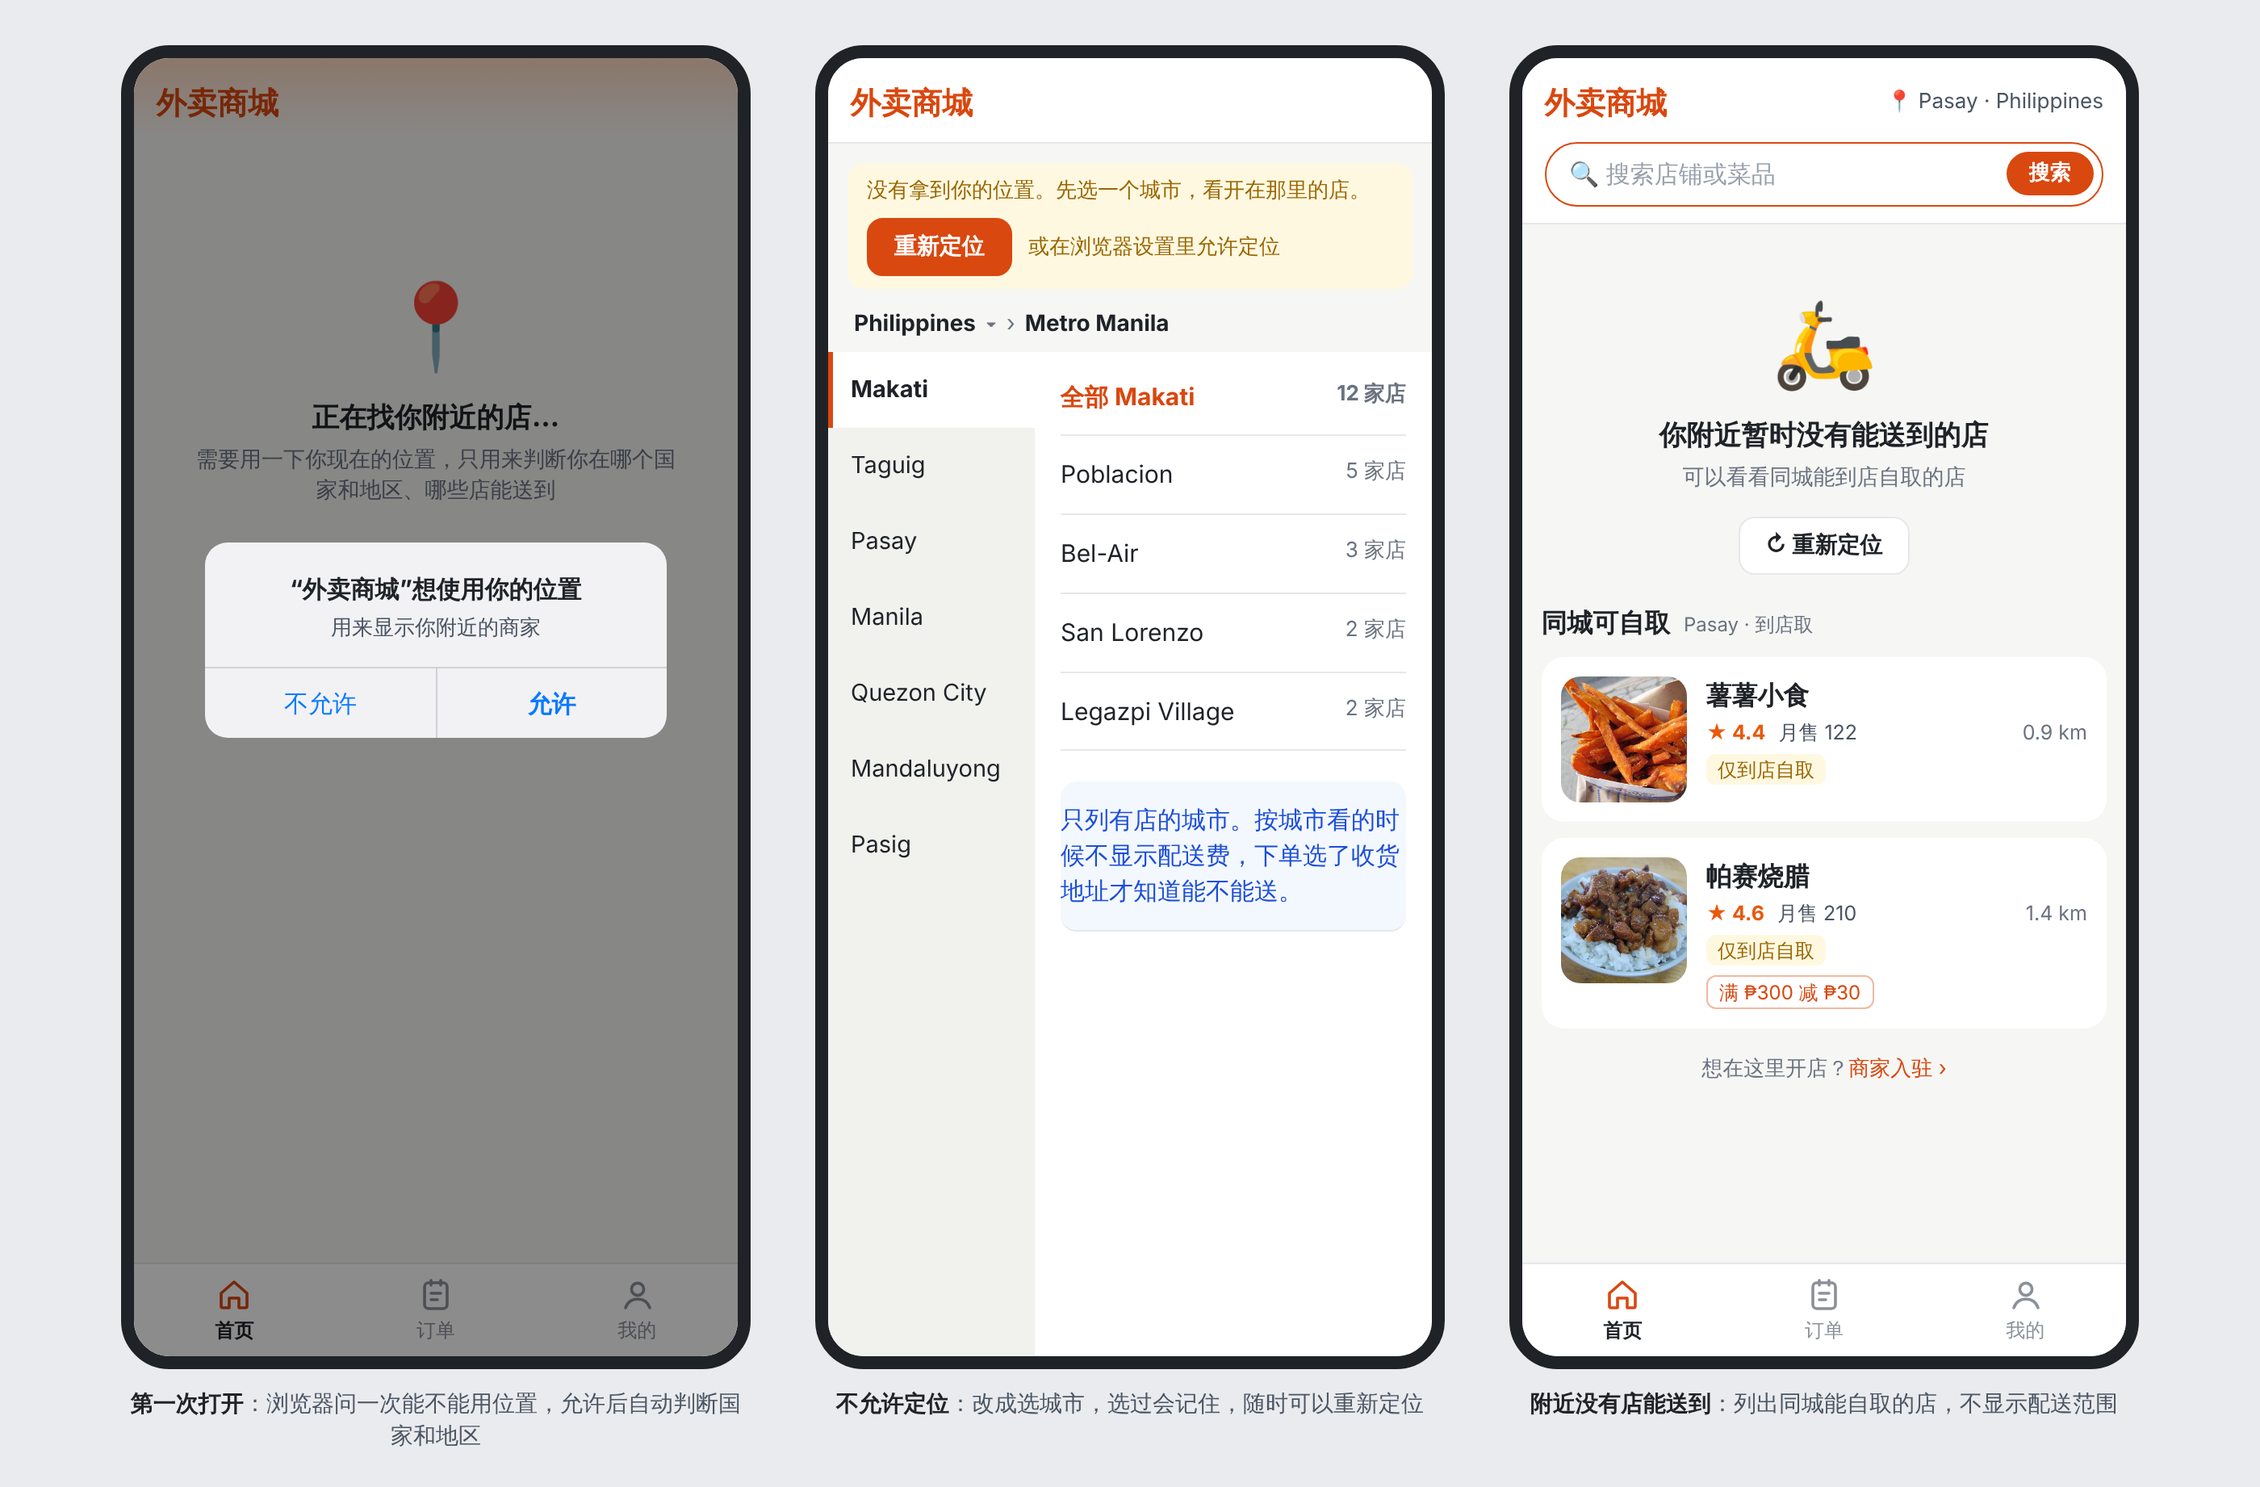
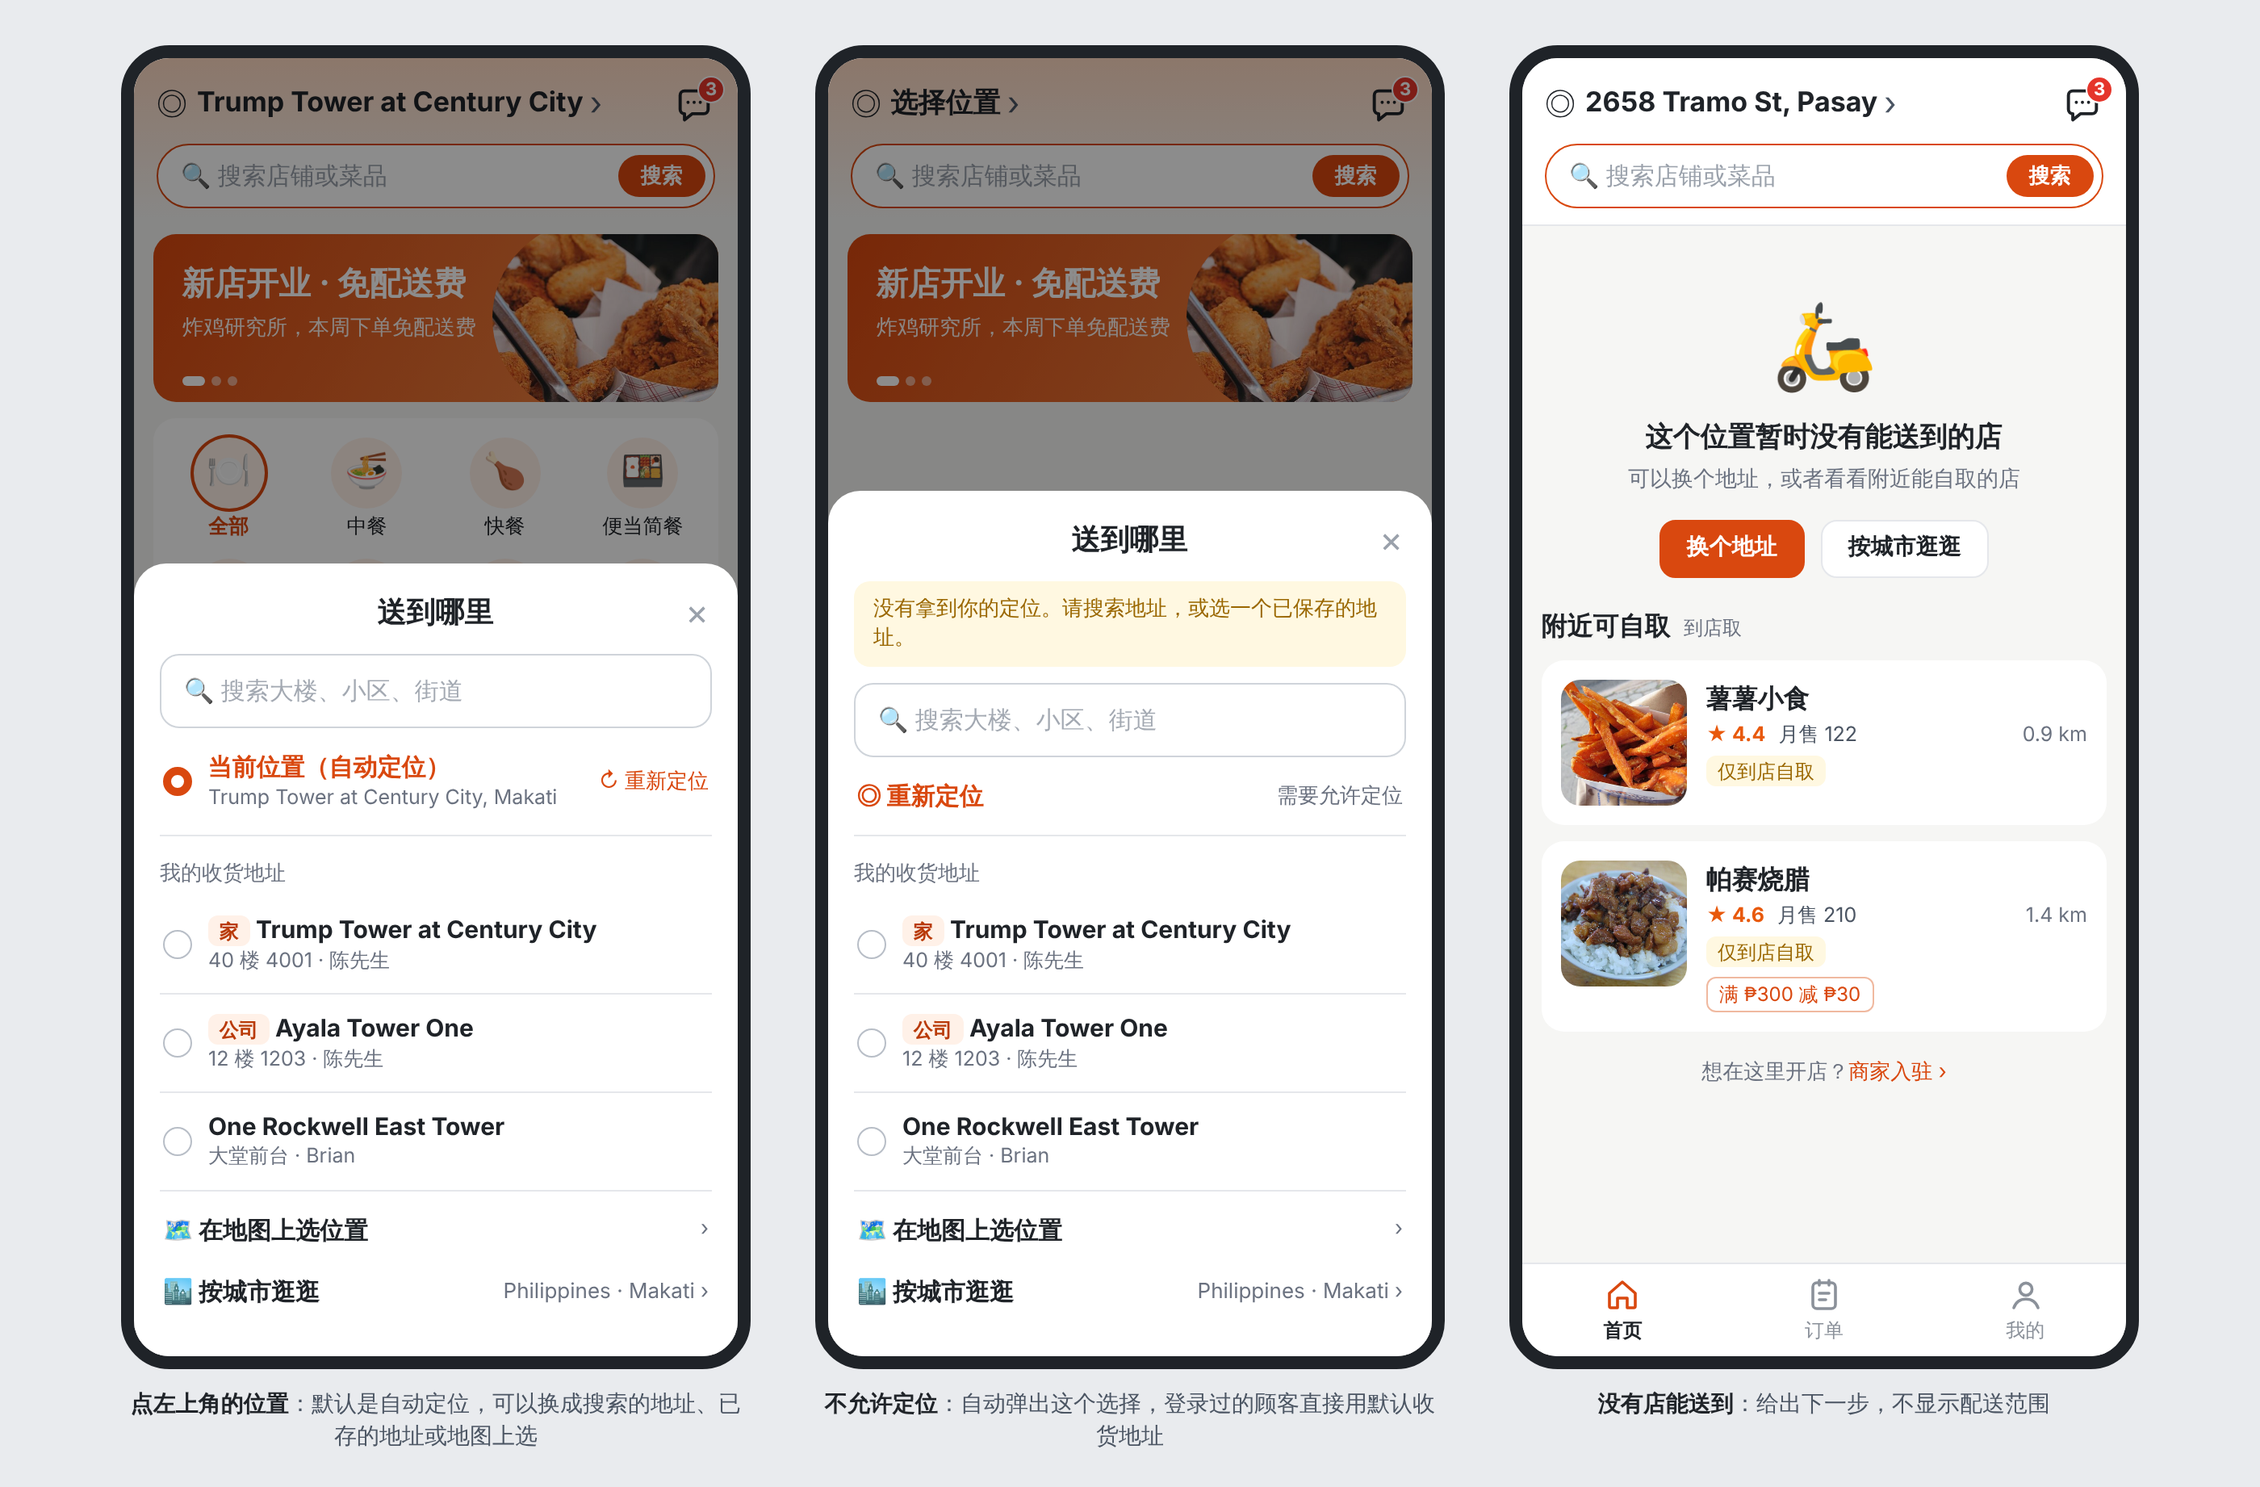
商城设计 v0.3：恢复顶部地址，左上角位置、右上角消息
Claude-Session: https://claude.ai/code/session_0171QGWHze3LkAjJvcuCNLGp

diff --git a/docs/mall-prototype/index.html b/docs/mall-prototype/index.html
@@ -48,8 +48,9 @@ function cardv(s) {
 }
 var CATS = [['🍽','全部'],['🍜','中餐'],['🍗','快餐'],['🍱','便当简餐'],['🧋','饮品'],['🍢','小吃'],['🍰','甜点'],['🥗','轻食']];
 function cats(on) { return '<div class="cats">' + CATS.map(function (c, i) { return '<div class="cat' + (i === on ? ' on' : '') + '"><i>' + c[0] + '</i>' + c[1] + '</div>'; }).join('') + '</div>'; }
-function topbar(region, flat, q) {
-  return '<div class="top' + (flat ? ' flat' : '') + '"><div class="loc"><span class="lgm">外卖商城</span><span class="sub">📍 ' + region + '</span></div>' +
+var MSG = '<span class="msg"><svg viewBox="0 0 24 24" width="26" height="26" fill="none" stroke="currentColor" stroke-width="1.8" stroke-linecap="round" stroke-linejoin="round"><path d="M4 6.5A2.5 2.5 0 0 1 6.5 4h11A2.5 2.5 0 0 1 20 6.5v8a2.5 2.5 0 0 1-2.5 2.5H11l-4.5 3.5V17A2.5 2.5 0 0 1 4 14.5z"/><path d="M8.5 10.5h.01M12 10.5h.01M15.5 10.5h.01"/></svg><i>3</i></span>';
+function topbar(name, flat, q) {
+  return '<div class="top' + (flat ? ' flat' : '') + '"><div class="loc"><span class="tgt">◎</span><span class="ell">' + name + '</span><span class="go">›</span>' + MSG + '</div>' +
     '<div class="search">🔍 ' + (q ? '<span class="q">' + q + '</span><span style="margin-left:auto">ⓧ</span>' : '搜索店铺或菜品<b>搜索</b>') + '</div></div>';
 }
 var ICON = {
@@ -61,41 +62,52 @@ var TABS = '<div class="tabs"><div class="on">' + ICON.home + '首页</div><div>
 function sorts(on) { return '<div class="sorts">' + ['综合','距离近','评分高','配送费低'].map(function (t, i) { return '<span class="s' + (i === on ? ' on' : '') + '">' + t + '</span>'; }).join('') + '<span class="gap"></span><span class="s">筛选 ▾</span></div>'; }
 function banner(cls) { return '<div class="banner ' + (cls || '') + '"><h3>新店开业 · 免配送费</h3><p>炸鸡研究所，本周下单免配送费</p><div class="dots"><i class="on"></i><i></i><i></i></div><img src="' + IMG + 'fried-combo.jpg"></div>'; }
 function phone(body, cap) { return '<div><div class="phone">' + body + '</div><div class="caption">' + cap + '</div></div>'; }
-var HERE = 'Makati · Philippines';
+var HERE = 'Trump Tower at Century City';
 
 function home() {
   var again = '<div class="again">' + [S[0], S[1], S[3], S[4]].map(function (s) { return '<div><img src="' + IMG + s.img + '"><div class="ell">' + s.n + '</div></div>'; }).join('') + '</div>';
   var a = topbar(HERE) + '<div class="scroll">' + banner() + cats(0) + '<div class="sec">常点的店</div>' + again +
-    '<div class="sec">附近的店 <span>共 6 家 · 都能送到你现在的位置</span></div>' + sorts(0) + shop(S[0]) + shop(S[1]) + '</div>' + TABS;
+    '<div class="sec">附近的店 <span>共 6 家 · 都能送到这个位置</span></div>' + sorts(0) + shop(S[0]) + shop(S[1]) + '</div>' + TABS;
   var b = topbar(HERE, true) + '<div class="scroll">' + sorts(1) + shop(S[1], {nocart:1}) + shop(S[2]) + shop(S[4]) + shop(S[5]) +
     '<div class="sec">附近可自取 <span>不送到这里，可以到店取</span></div>' + shop(S[6]) + '</div>' + TABS;
   var c = topbar(HERE, true, '牛肉面') + '<div class="scroll"><div class="small muted">找到 2 家店有“牛肉面”</div>' + shop(S[0], {dishes:1, nocart:1}) +
     shop({ n:'台北便当', c:'', img:'bento.jpg', star:'4.7', sold:355, fee:59, min:180, eta:35, km:'2.4', tags:[], d:[['beef-noodle-soup.jpg','台式牛肉面','₱240']] }, {dishes:1}) + '</div>' + TABS;
   return '<div class="phones">' +
-    phone(a, '<b>商城首页</b>：不用选地址，自动定位后直接列出附近能送到的店') +
+    phone(a, '<b>商城首页</b>：左上角是自动定位到的位置，点一下可以换；右上角是消息') +
     phone(b, '<b>往下滑</b>：可以排序和筛选，休息中的店排在后面，送不到但能自取的单独一栏') +
     phone(c, '<b>搜索</b>：按店名或菜名搜，结果也只在附近能送到的店里找') + '</div>';
 }
 
 function loc() {
-  var a = '<div class="top"><div class="loc"><span class="lgm">外卖商城</span></div></div>' +
-    '<div class="scroll"><div class="empty" style="padding-top:70px"><div class="ic">📍</div><h3>正在找你附近的店…</h3><p>需要用一下你现在的位置，只用来判断你在哪个国家和地区、哪些店能送到</p></div></div>' + TABS +
-    '<div class="dim"></div><div class="sysdlg"><b>“外卖商城”想使用你的位置</b><p>用来显示你附近的商家</p><div><span>不允许</span><span class="ok">允许</span></div></div>';
-  var b = '<div class="top flat"><div class="loc"><span class="lgm">外卖商城</span></div></div>' +
-    '<div style="padding:12px 12px 0"><div class="notice">没有拿到你的位置。先选一个城市，看开在那里的店。<div class="row" style="margin-top:8px"><span class="btn primary sm">重新定位</span><span class="small">或在浏览器设置里允许定位</span></div></div></div>' +
-    '<div class="crumb"><b>Philippines</b> ▾ <span>›</span> <b>Metro Manila</b></div>' +
-    '<div class="cols"><div class="l"><div class="on">Makati</div><div>Taguig</div><div>Pasay</div><div>Manila</div><div>Quezon City</div><div>Mandaluyong</div><div>Pasig</div></div>' +
-    '<div class="r"><div class="on">全部 Makati <span>12 家店</span></div><div>Poblacion <span>5 家店</span></div><div>Bel-Air <span>3 家店</span></div><div>San Lorenzo <span>2 家店</span></div><div>Legazpi Village <span>2 家店</span></div>' +
-    '<div style="border:0;display:block"><div class="notice info" style="margin-top:6px">只列有店的城市。按城市看的时候不显示配送费，下单选了收货地址才知道能不能送。</div></div></div></div>';
-  var c = topbar('Pasay · Philippines', true) + '<div class="scroll"><div class="empty"><div class="ic">🛵</div><h3>你附近暂时没有能送到的店</h3><p>可以看看同城能到店自取的店</p>' +
-    '<div class="row" style="justify-content:center"><span class="btn sm">↻ 重新定位</span></div></div>' +
-    '<div class="sec">同城可自取 <span>Pasay · 到店取</span></div>' + shop(S[6]) +
+  var bg = topbar(HERE) + '<div class="scroll">' + banner() + cats(0) + '</div>' + TABS;
+  var a = bg + '<div class="dim"></div><div class="sheet"><h2>送到哪里<span>×</span></h2>' +
+    '<div class="inp">🔍 搜索大楼、小区、街道</div>' +
+    '<div class="gps"><span class="rd on" style="flex:none;width:18px;height:18px;border-radius:50%;border:5px solid var(--brand);margin:0"></span><div style="flex:1;min-width:0"><div>当前位置（自动定位）</div><div style="font-weight:400;color:var(--muted);font-size:12.5px">Trump Tower at Century City, Makati</div></div><span style="color:var(--brand)">↻ 重新定位</span></div>' +
+    '<div class="lbl">我的收货地址</div>' +
+    '<div class="adr"><span class="rd"></span><div class="grow"><b><span class="tag brand">家</span> Trump Tower at Century City</b><small>40 楼 4001 · 陈先生</small></div></div>' +
+    '<div class="adr"><span class="rd"></span><div class="grow"><b><span class="tag brand">公司</span> Ayala Tower One</b><small>12 楼 1203 · 陈先生</small></div></div>' +
+    '<div class="adr"><span class="rd"></span><div class="grow"><b>One Rockwell East Tower</b><small>大堂前台 · Brian</small></div></div>' +
+    '<div class="gps" style="color:var(--ink);border:0">🗺 在地图上选位置<span>›</span></div>' +
+    '<div class="gps" style="color:var(--ink);border:0;padding-top:4px">🏙 按城市逛逛<span>Philippines · Makati ›</span></div></div>';
+  var b = topbar('选择位置') + '<div class="scroll">' + banner() + '</div>' + TABS + '<div class="dim"></div><div class="sheet"><h2>送到哪里<span>×</span></h2>' +
+    '<div class="notice" style="margin-bottom:10px">没有拿到你的定位。请搜索地址，或选一个已保存的地址。</div>' +
+    '<div class="inp">🔍 搜索大楼、小区、街道</div>' +
+    '<div class="gps">◎ 重新定位<span>需要允许定位</span></div>' +
+    '<div class="lbl">我的收货地址</div>' +
+    '<div class="adr"><span class="rd"></span><div class="grow"><b><span class="tag brand">家</span> Trump Tower at Century City</b><small>40 楼 4001 · 陈先生</small></div></div>' +
+    '<div class="adr"><span class="rd"></span><div class="grow"><b><span class="tag brand">公司</span> Ayala Tower One</b><small>12 楼 1203 · 陈先生</small></div></div>' +
+    '<div class="adr"><span class="rd"></span><div class="grow"><b>One Rockwell East Tower</b><small>大堂前台 · Brian</small></div></div>' +
+    '<div class="gps" style="color:var(--ink);border:0">🗺 在地图上选位置<span>›</span></div>' +
+    '<div class="gps" style="color:var(--ink);border:0;padding-top:4px">🏙 按城市逛逛<span>Philippines · Makati ›</span></div></div>';
+  var c = topbar('2658 Tramo St, Pasay', true) + '<div class="scroll"><div class="empty"><div class="ic">🛵</div><h3>这个位置暂时没有能送到的店</h3><p>可以换个地址，或者看看附近能自取的店</p>' +
+    '<div class="row" style="justify-content:center"><span class="btn primary sm">换个地址</span><span class="btn sm">按城市逛逛</span></div></div>' +
+    '<div class="sec">附近可自取 <span>到店取</span></div>' + shop(S[6]) +
     shop({ n:'帕赛烧腊', c:'', img:'braised-pork-rice.jpg', star:'4.6', sold:210, km:'1.4', pickup:1, tags:['满 ₱300 减 ₱30'] }) +
     '<div class="small muted" style="text-align:center;margin-top:6px">想在这里开店？<span style="color:var(--brand)">商家入驻 ›</span></div></div>' + TABS;
   return '<div class="phones">' +
-    phone(a, '<b>第一次打开</b>：浏览器问一次能不能用位置，允许后自动判断国家和地区') +
-    phone(b, '<b>不允许定位</b>：改成选城市，选过会记住，随时可以重新定位') +
-    phone(c, '<b>附近没有店能送到</b>：列出同城能自取的店，不显示配送范围') + '</div>';
+    phone(a, '<b>点左上角的位置</b>：默认是自动定位，可以换成搜索的地址、已存的地址或地图上选') +
+    phone(b, '<b>不允许定位</b>：自动弹出这个选择，登录过的顾客直接用默认收货地址') +
+    phone(c, '<b>没有店能送到</b>：给出下一步，不显示配送范围') + '</div>';
 }
 
 function wide(w, h, cols, pc) {
@@ -103,10 +115,10 @@ function wide(w, h, cols, pc) {
     '<hr><div>☑ 只看营业中</div><div>☐ 有优惠</div><div>☐ 可预约</div></div>';
   var list = S.slice(0, pc ? 6 : 4);
   return '<div class="frame' + (pc ? ' pc' : '') + '" style="width:' + (w + 16) + 'px;height:' + (h + 16) + 'px">' +
-    '<div class="hdr"><span class="lg">外卖商城</span><div class="here">📍 ' + HERE + '</div>' +
-    '<div class="search">🔍 搜索店铺或菜品<b>搜索</b></div><div class="nav">' + (pc ? '<span>收藏</span>' : '') + '<span>订单</span><span>消息</span><span class="av">陈</span></div></div>' +
+    '<div class="hdr"><span class="lg">外卖商城</span><div class="loc"><span class="tgt">◎</span><span class="ell">' + HERE + '</span><span class="go">›</span></div>' +
+    '<div class="search">🔍 搜索店铺或菜品<b>搜索</b></div><div class="nav">' + (pc ? '<span>收藏</span>' : '') + '<span>订单</span>' + MSG + '<span class="av">陈</span></div></div>' +
     '<div class="body">' + side + '<div class="main">' + banner('bannerw') +
-    '<div class="row between"><div class="sec">附近的店 <span>共 6 家 · 都能送到你现在的位置</span></div>' + sorts(0) + '</div>' +
+    '<div class="row between"><div class="sec">附近的店 <span>共 6 家 · 都能送到这个位置</span></div>' + sorts(0) + '</div>' +
     '<div class="grid" style="grid-template-columns:repeat(' + cols + ',1fr)">' + list.map(cardv).join('') + '</div></div></div></div>';
 }
 
@@ -129,7 +141,7 @@ var s = new URLSearchParams(location.search).get('s') || 'home';
 document.getElementById('root').innerHTML =
   s === 'location' ? loc() :
   s === 'ipad' ? wide(1024, 768, 2) + '<div class="capw"><b>iPad</b>：左边分类，右边两列店铺卡</div>' :
-  s === 'pc' ? wide(1440, 900, 3, true) + '<div class="capw"><b>电脑</b>：顶部是自动识别出的地区、搜索、订单和我的，店铺卡三列，带封面图</div>' :
+  s === 'pc' ? wide(1440, 900, 3, true) + '<div class="capw"><b>电脑</b>：左上角是位置，右上角是订单、消息和我的，店铺卡三列，带封面图</div>' :
   s === 'manage' ? manage() : home();
 </script>
 </body>

diff --git a/docs/mall-prototype/proto.css b/docs/mall-prototype/proto.css
@@ -132,3 +132,9 @@ td img { width:34px; height:34px; border-radius:8px; object-fit:cover; display:b
 .sysdlg { position:absolute; left:44px; right:44px; top:300px; background:#f2f2f4; border-radius:14px; text-align:center; padding:18px 0 0; font-size:15px; overflow:hidden; }
 .sysdlg p { margin:4px 16px 14px; font-size:13px; color:#4b5563; }
 .sysdlg > div { display:grid; grid-template-columns:1fr 1fr; border-top:1px solid #d1d1d6; } .sysdlg span { padding:11px 0; color:#0a7aff; } .sysdlg span.ok { font-weight:700; border-left:1px solid #d1d1d6; }
+
+/* v0.3：左上角位置，右上角消息 */
+.loc .tgt { font-size:19px; color:var(--ink); font-weight:400; } .loc .go { font-weight:400; color:#4b5563; font-size:20px; margin-left:-2px; }
+.msg { margin-left:auto; position:relative; display:grid; flex:none; color:var(--ink); }
+.msg i { position:absolute; right:-6px; top:-5px; background:#e5352b; color:#fff; font-style:normal; font-size:11px; font-weight:700; min-width:17px; height:17px; border-radius:9px; display:grid; place-items:center; border:1.5px solid #fff; }
+.hdr .msg { margin-left:0; }
